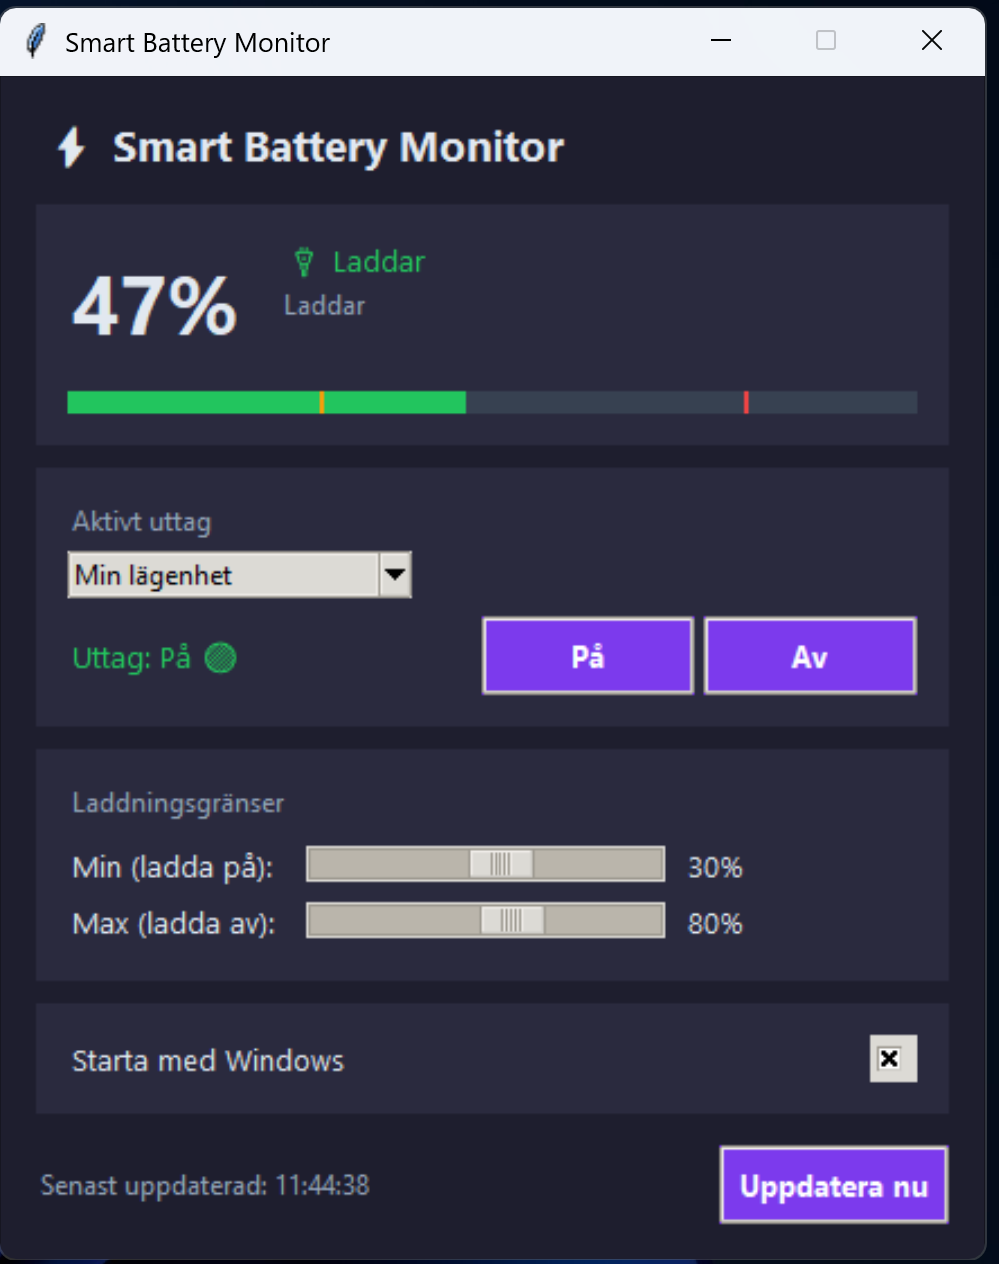
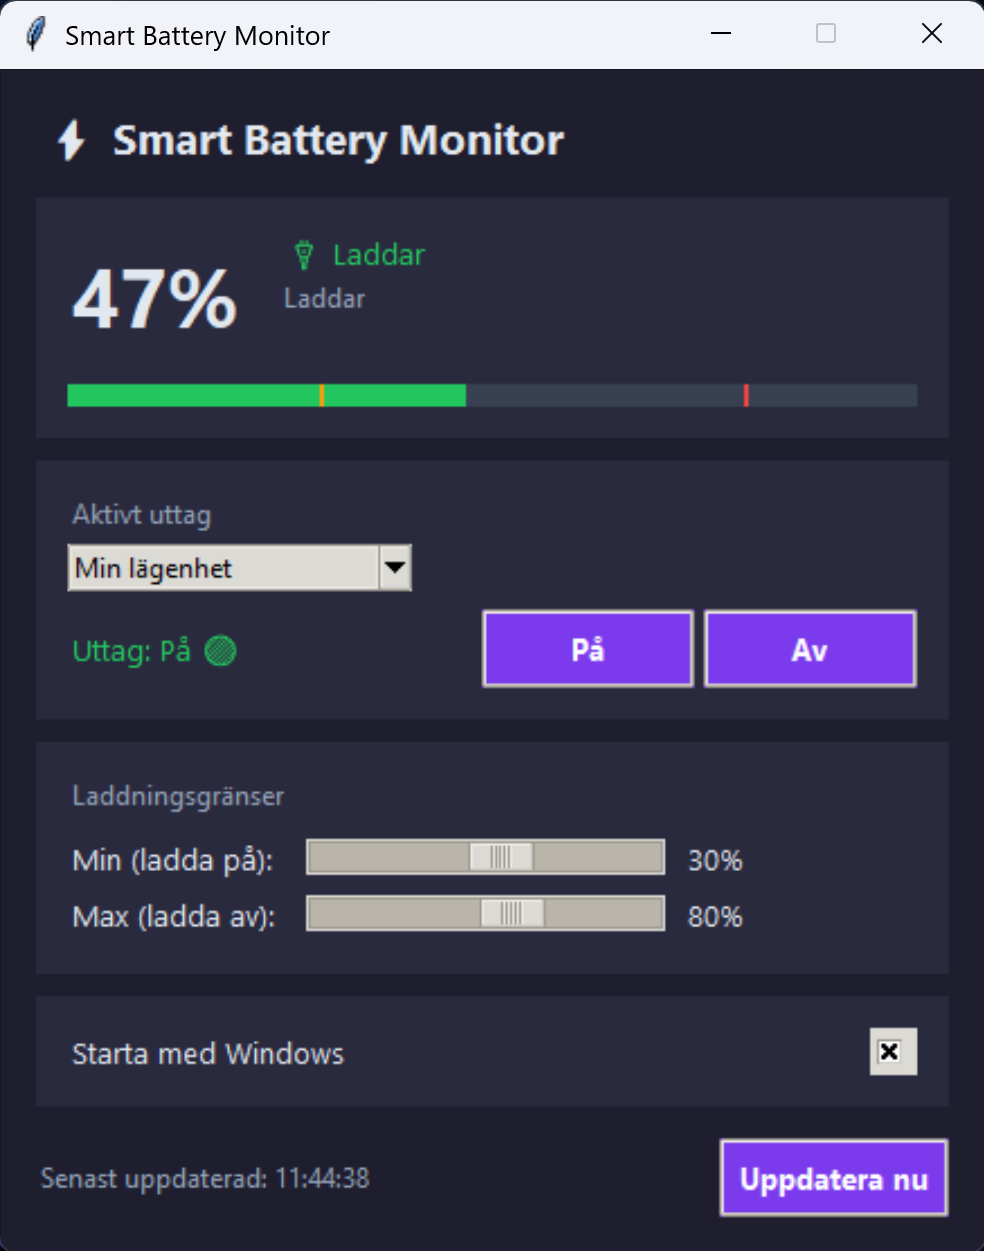
Remove duplicate screenshots of app on README.md, and scale the image better

diff --git a/README.md b/README.md
@@ -2,8 +2,6 @@
 
 A lightweight Windows app that automatically controls a **Tuya smart plug** based on your laptop's battery level — keeping your battery healthy by avoiding full charges and deep discharges.
 
-![App Screenshot](images/screenshot.png)
-
 > Built by [Adli Anabtawi](https://github.com/adlianabtawi) with the help of [Claude](https://claude.ai) by Anthropic
 
 ## 💡 Background